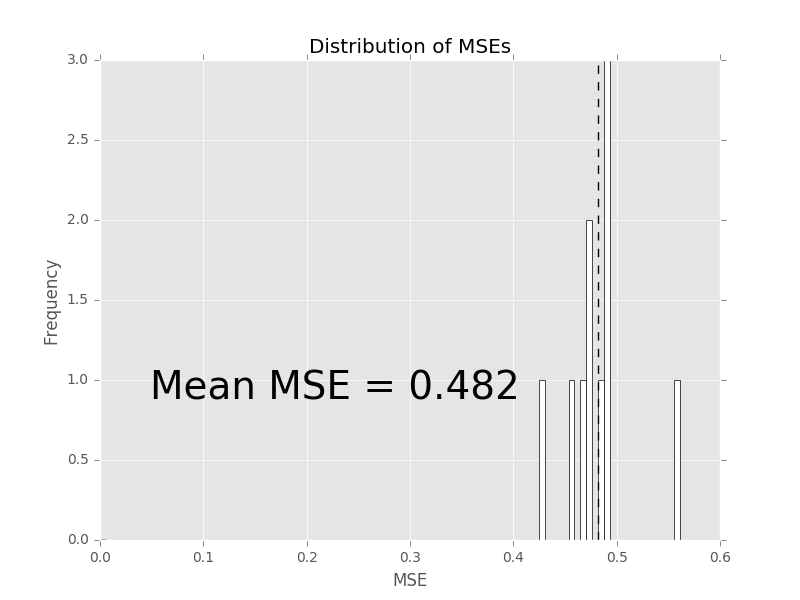
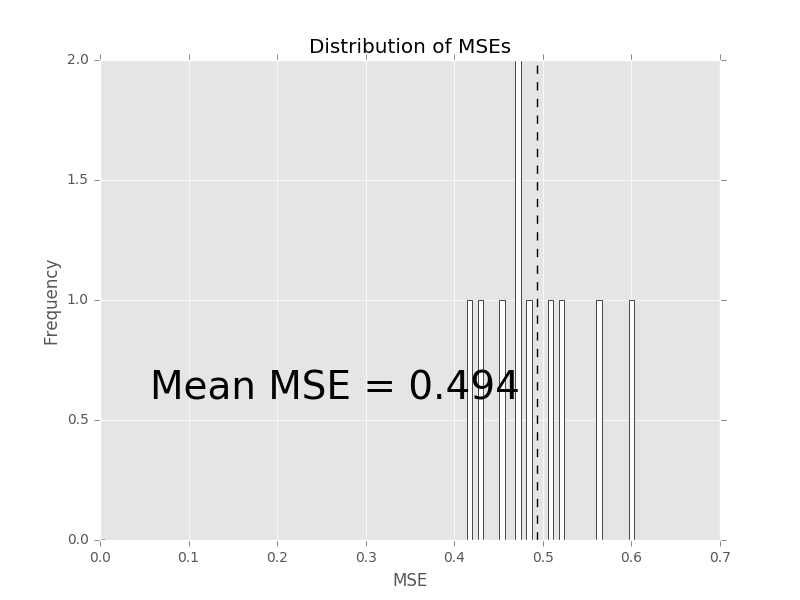
implemented rough support for easy_random_forest...need to flesh out bugs with bootstrap_predictions

diff --git a/Python/easyml/random_forest.py b/Python/easyml/random_forest.py
@@ -1,0 +1,145 @@
+"""Factory functions for quick and easy analysis.
+"""
+import matplotlib.pyplot as plt
+import numpy as np
+from os import path
+from sklearn.ensemble import RandomForestClassifier, RandomForestRegressor
+from sklearn.model_selection import train_test_split
+from sklearn.preprocessing import StandardScaler
+
+from .bootstrap import bootstrap_aucs, bootstrap_mses, bootstrap_predictions
+from .plot import plot_auc_histogram, plot_gaussian_predictions, plot_mse_histogram, plot_roc_curve
+from .sample import sample_equal_proportion
+
+
+__all__ = ['easy_random_forest']
+
+
+def easy_random_forest(data, dependent_variable, family='gaussian', sample=None,
+                       exclude_variables=None, categorical_variables=None,
+                       standardize_data=True, train_size=0.667, survival_rate_cutoff=0.05,
+                       n_samples=1000, n_divisions=1000, n_iterations=10,
+                       out_directory='.', random_state=None, progress_bar=True,
+                       n_core=1, **kwargs):
+    # Handle random state
+    if random_state is not None:
+        np.random.seed(random_state)
+
+    # Handle columns
+    column_names = data.columns
+    column_names = [c for c in column_names if c != dependent_variable]
+    if exclude_variables is not None:
+        column_names = [c for c in column_names if c not in exclude_variables]
+
+    # Exclude certain variables and y
+    y = data[dependent_variable].values
+    data = data.drop(dependent_variable, axis=1)
+    if exclude_variables is not None:
+        data = data.drop(exclude_variables, axis=1)
+
+    # If True, standardize the data
+    if standardize_data:
+        stdsc = StandardScaler()
+        if categorical_variables is None:
+            X = data.values
+            X = stdsc.fit_transform(X)
+        else:
+            X_categorical = data[categorical_variables].values
+            X_numeric = data.drop(categorical_variables, axis=1).values
+            X_std = stdsc.fit_transform(X_numeric)
+            X = np.concatenate([X_categorical, X_std], axis=1)
+            column_names = [c for c in column_names if c not in categorical_variables]
+            column_names = categorical_variables + column_names
+
+    # Set glmnet specific handlers
+    def fit_model(e, X, y):
+        return e.fit(X, y)
+
+    if family == 'gaussian':
+        # Set gaussian specific functions
+        model = RandomForestRegressor(**kwargs)
+
+        def predict_model(e, X):
+            return e.predict(X)
+
+        if sample is None:
+            sample = train_test_split
+
+        # Split data
+        X_train, X_test, y_train, y_test = sample(X, y, train_size=train_size)
+
+        # Bootstrap predictions
+        y_train_pred, y_test_pred = bootstrap_predictions(model, fit_model, predict_model, X_train, y_train, X_test,
+                                                          n_samples=n_samples, progress_bar=progress_bar,
+                                                          n_core=n_core)
+
+        # Take average of predictions for training and test sets
+        y_train_pred_mean = np.mean(y_train_pred, axis=0)
+        y_test_pred_mean = np.mean(y_test_pred, axis=0)
+
+        # Plot the gaussian predictions for training
+        plot_gaussian_predictions(y_train, y_train_pred_mean)
+        plt.savefig(path.join(out_directory, 'train_predictions.png'))
+
+        # Plot the gaussian predictions for test
+        plot_gaussian_predictions(y_test, y_test_pred_mean)
+        plt.savefig(path.join(out_directory, 'test_predictions.png'))
+
+        # Bootstrap training and test MSEs
+        train_mses, test_mses = bootstrap_mses(model, sample, fit_model, predict_model, X, y,
+                                               n_divisions=n_divisions, n_iterations=n_iterations,
+                                               progress_bar=progress_bar, n_core=n_core)
+
+        # Plot histogram of training MSEs
+        plot_mse_histogram(train_mses)
+        plt.savefig(path.join(out_directory, 'train_mse_distribution.png'))
+
+        # Plot histogram of test MSEs
+        plot_mse_histogram(test_mses)
+        plt.savefig(path.join(out_directory, 'test_mse_distribution.png'))
+
+    elif family == 'binomial':
+        # Set binomial specific functions
+        model = RandomForestClassifier(**kwargs)
+
+        def predict_model(e, X):
+            return e.predict_proba(X)[:, 1]
+
+        if sample is None:
+            sample = sample_equal_proportion
+
+        # Split data
+        X_train, X_test, y_train, y_test = sample(X, y, train_size=train_size)
+
+        # Bootstrap predictions
+        y_train_pred, y_test_pred = bootstrap_predictions(model, fit_model, predict_model, X_train, y_train, X_test,
+                                                          n_samples=n_samples, progress_bar=progress_bar,
+                                                          n_core=n_core)
+
+        # Take average of predictions for training and test sets
+        y_train_pred_mean = np.mean(y_train_pred, axis=0)
+        y_test_pred_mean = np.mean(y_test_pred, axis=0)
+
+        # Plot the ROC curve for training
+        plot_roc_curve(y_train, y_train_pred_mean)
+        plt.savefig(path.join(out_directory, 'train_roc_curve.png'))
+
+        # Plot the ROC curve for test
+        plot_roc_curve(y_test, y_test_pred_mean)
+        plt.savefig(path.join(out_directory, 'test_roc_curve.png'))
+
+        # Bootstrap training and test AUCSs
+        train_aucs, test_aucs = bootstrap_aucs(model, sample, fit_model, predict_model, X, y,
+                                               n_divisions=n_divisions, n_iterations=n_iterations,
+                                               progress_bar=progress_bar, n_core=n_core)
+
+        # Plot histogram of training AUCs
+        plot_auc_histogram(train_aucs)
+        plt.savefig(path.join(out_directory, 'train_auc_distribution.png'))
+
+        # Plot histogram of test AUCs
+        plot_auc_histogram(test_aucs)
+        plt.savefig(path.join(out_directory, 'test_auc_distribution.png'))
+
+    else:
+        raise ValueError

diff --git a/Python/examples/cocaine_dependence/analysis.py b/Python/examples/cocaine_dependence/analysis.py
@@ -4,6 +4,7 @@ import os
 import pandas as pd
 
 from easyml.glmnet import easy_glmnet
+from easyml.random_forest import easy_random_forest
 
 
 # Set matplotlib settings
@@ -20,3 +21,8 @@ if __name__ == "__main__":
                 random_state=1, progress_bar=True, n_core=os.cpu_count(),
                 n_samples=100, n_divisions=10, n_iterations=5,
                 alpha=1, n_lambda=200, standardize=False, cut_point=0, max_iter=1e6)
+
+    easy_random_forest(cocaine_depedence, 'DIAGNOSIS',
+                       family='binomial', exclude_variables=['subject'], categorical_variables=['Male'],
+                       random_state=1, progress_bar=True, n_core=os.cpu_count(),
+                       n_samples=100, n_divisions=10, n_iterations=5)

diff --git a/Python/examples/prostate/analysis.py b/Python/examples/prostate/analysis.py
@@ -4,6 +4,7 @@ import os
 import pandas as pd
 
 from easyml.glmnet import easy_glmnet
+from easyml.random_forest import easy_random_forest
 
 
 # Set matplotlib settings
@@ -20,3 +21,8 @@ if __name__ == "__main__":
                 random_state=1, progress_bar=True, n_core=os.cpu_count(),
                 n_samples=100, n_divisions=10, n_iterations=5,
                 alpha=1, n_lambda=200, standardize=False, cut_point=0, max_iter=1e6)
+
+    # Analyze data
+    easy_random_forest(prostate, 'lpsa',
+                       random_state=1, progress_bar=True, n_core=os.cpu_count(),
+                       n_samples=100, n_divisions=10, n_iterations=5)
